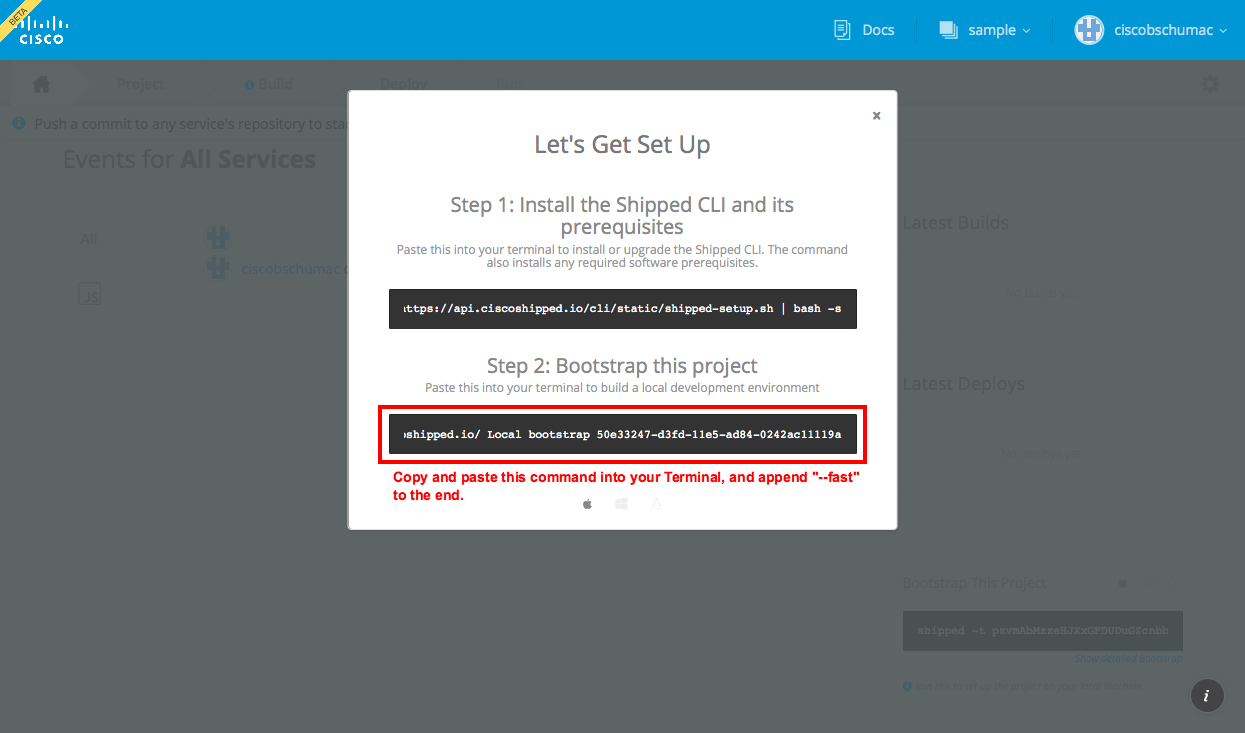
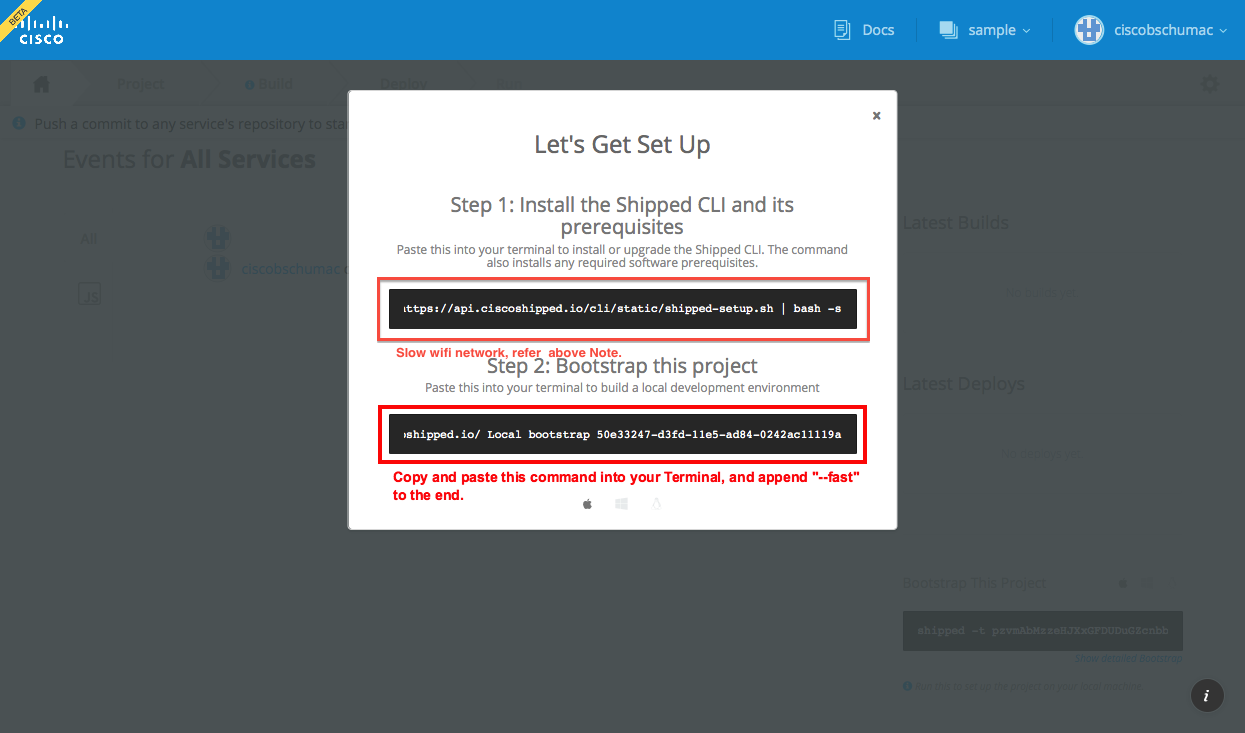
Update note to avoid instaling virtualbox and Vagrant on slow wifi network

Changed region(s): [[0.3052, 0.3602, 0.702, 0.5102]]

diff --git a/README.md b/README.md
@@ -12,35 +12,42 @@
    ![Compose Application](artifacts/03.compose.png)
    ![Compose Application](artifacts/03.1expressbuildpack.png)
    ![Service Name](artifacts/03.2expressjsservice.png)
-   
 
-5. After you click "Build Project" you should be prompted to bootstrap your local environment. The first command downloads and installs the Shipped CLI. If you already have that installed, then copy the second command and prepare to paste it into your `Terminal` or command-line window.
+
+5. After you click "Build Project" you should be prompted to bootstrap your local environment. The first command downloads and installs the Shipped CLI.
+
+    *Note*: Shipped cli install also installs Vagrant and Virtualbox as dependency. On slow network like shared wifi on conferences, to skip installing large vagrant and Virtualbox installer file set following environment variables before running first command.
+    ```
+    On Mac/Linux >> export SHIPPED_VM=none
+    On Windows  >> SET export SHIPPED_VM=none
+    ```  
+     If you already have Shipped CLI installed, then copy the second command and prepare to paste it into your `Terminal` or command-line window.
    ![Bootstrap Command](artifacts/04.bootstrap command.png)
 
 6. When you paste the command into your `Terminal`, please add the argument `--fast` for the purposes of this walkthrough and press your `<Enter>` key.
    ![Bootstrap Execute](artifacts/05.bootstrap execute.png)
-   
+
 7. To kick off your first build, change directory into the local code checkout, then commit and push your changes. On OS X and Linux, you can use this command:
 
    ```
    cd sample/expressjs && git push origin master
    ```
-   
+
 8. After your code is committed, it should automatically start a build.
    ![Build started](artifacts/07.build started.png)
-   
+
 9. You should now switch the the `Deploy` tab and create a new environment to deploy your application into.
    ![Create environment](artifacts/08.create environment.png)
-   
+
 10. This walkthrough expects the environment to be named `stage`.
    ![Name environment](artifacts/09.name environment.png)
-     
+
 11. Once your build has completed successfully, you can deploy it to your environment.
     ![Deploy your build](artifacts/10.deploy build.png)
 
 12. You can enable automatic deployments to an environment by in the `Settings` page.
     ![Enable automatic deployment](artifacts/11.auto deploy.png)
-    
+
 13. To find the URI for your deployed build, you'll need to execute this command in your `Terminal`:
 
     ```
@@ -51,33 +58,33 @@
 
     ```
     *Note: this command will fail if you've used names different than the ones recommended above.*
-    
+
     ![Discover URI](artifacts/12.get deployed uri.png)
-    
+
 14. Your application is [live](http://stage--sample--expressjs--47497b.shipped-cisco.com/)!
     ![See your application](artifacts/13.hello from shipped.png)
-    
+
 15. Now you can update your application in your favorite editor.
     In this example we've added this text to the end of the string on the 5th line in the `index.js` file:
- 
+
     ```
     <p>Thanks for learning more about us!</p>
     ```
-    
+
     ![Update application text](artifacts/14.update app text.png)
-    
+
 16. Now you can commit and push your changes with the commands:
 
     ```
     git commit -a
     git push origin master
     ```
-    
+
     ![Commit and push changes](artifacts/15.commit and push changes.png)
-    
+
 17. If you have automatic deployments enabled, then your changes will be automatically staged and run after the build is successful.
 
     ![Automatic deployment](artifacts/17.automatic deployment.png)
-    
+
 18. And you can reload your application to see the changes you've made...
     ![Reload app to see changes](artifacts/18.reload app to see changes.png)
